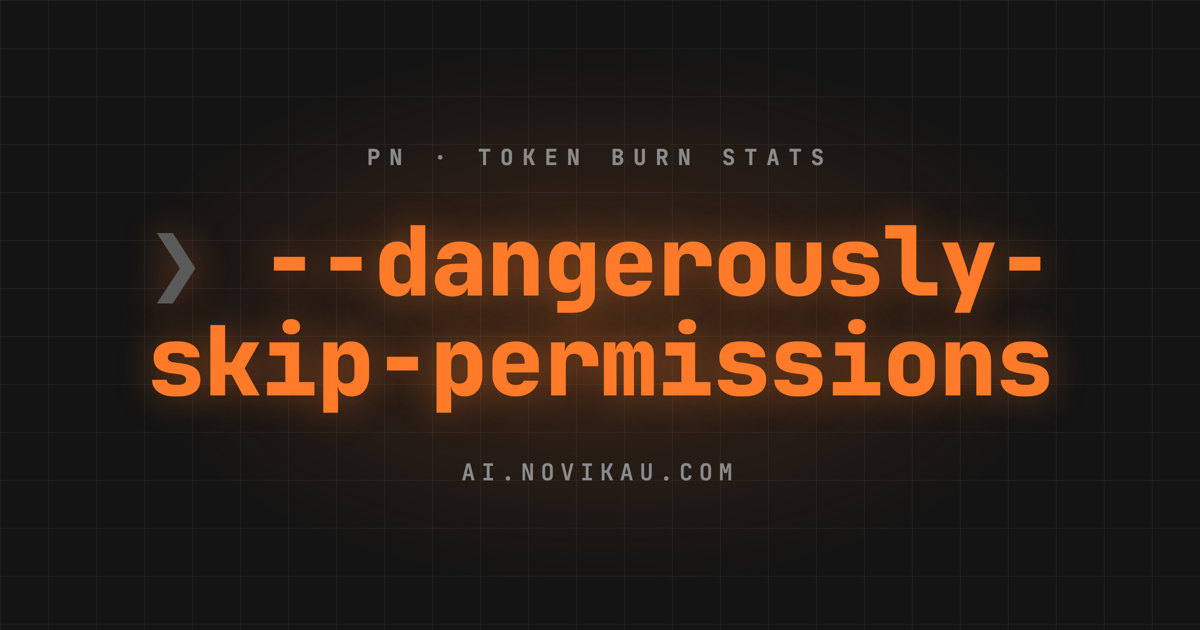
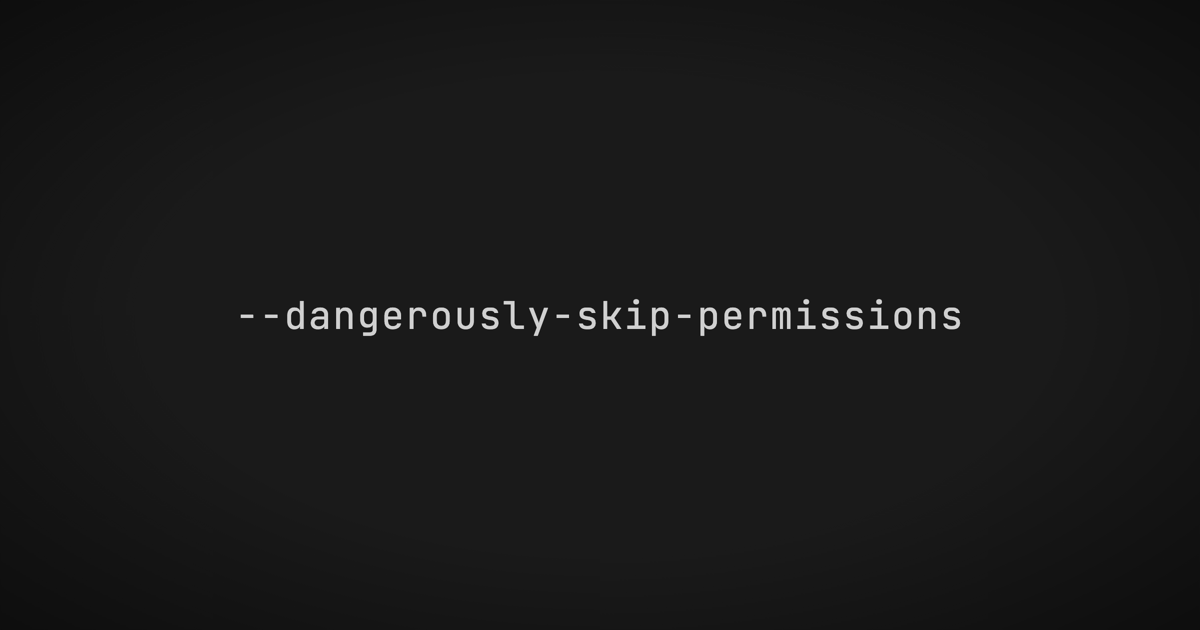
og: minimal t-shirt style (light mono, one line, graphite); strip preview text to just 'pn token burn stats'

diff --git a/docs/index.html b/docs/index.html
@@ -3,26 +3,22 @@
 <head>
   <meta charset="utf-8">
   <meta name="viewport" content="width=device-width, initial-scale=1">
-  <title>pn · token burn stats — Claude Code + Codex</title>
-  <meta name="description" content="Pavel Novikau's live Claude Code + Codex token burn — sessions, tokens, streaks, daily heatmap.">
+  <title>pn token burn stats</title>
   <link rel="canonical" href="https://ai.novikau.com/">
 
   <link rel="icon" href="favicon.svg" type="image/svg+xml">
   <link rel="apple-touch-icon" href="apple-touch-icon.png">
 
   <meta property="og:type" content="website">
-  <meta property="og:site_name" content="pn token burn stats">
-  <meta property="og:title" content="pn · token burn stats">
-  <meta property="og:description" content="Live Claude Code + Codex token burn — sessions, tokens, streaks, daily heatmap.">
+  <meta property="og:title" content="pn token burn stats">
   <meta property="og:url" content="https://ai.novikau.com/">
-  <meta property="og:image" content="https://ai.novikau.com/og.png">
+  <meta property="og:image" content="https://ai.novikau.com/og.png?v=2">
   <meta property="og:image:width" content="1200">
   <meta property="og:image:height" content="630">
 
   <meta name="twitter:card" content="summary_large_image">
-  <meta name="twitter:title" content="pn · token burn stats">
-  <meta name="twitter:description" content="Live Claude Code + Codex token burn — sessions, tokens, streaks, daily heatmap.">
-  <meta name="twitter:image" content="https://ai.novikau.com/og.png">
+  <meta name="twitter:title" content="pn token burn stats">
+  <meta name="twitter:image" content="https://ai.novikau.com/og.png?v=2">
 
   <link rel="stylesheet" href="themes.css">
   <link rel="stylesheet" href="styles.css">